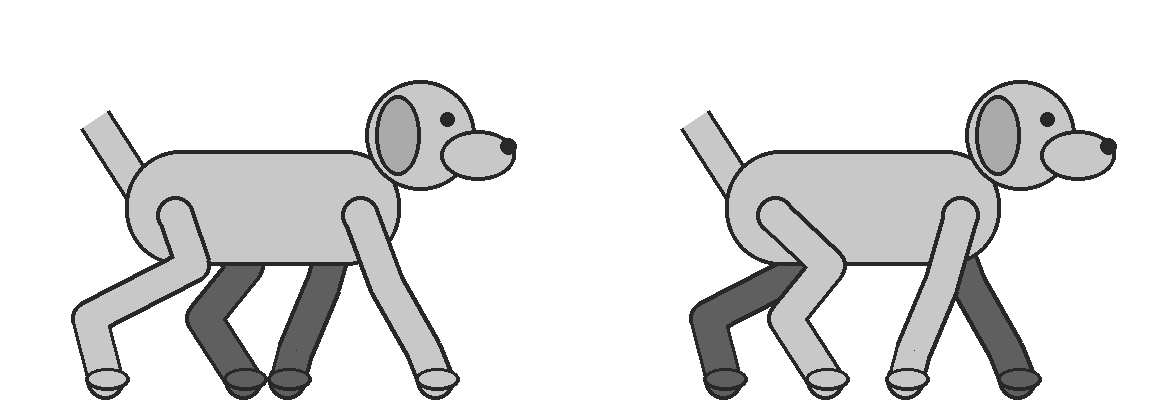
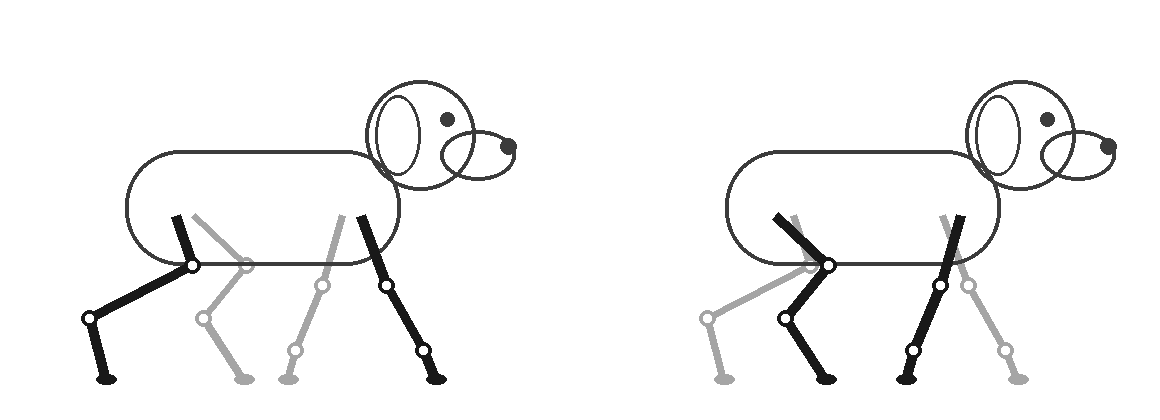
[그림 공장] 안내 그림을 막대 뼈대로(꼬리 없음) · 다리 털 질감·꼬리 모양 유지 · 흰 개 먼 다리 크림색 · 으르렁 눈은 웃게 · 칸 선 둘레까지 지우기

Changed region(s): [[0.0621, 0.1857, 0.4655, 0.9595], [0.5897, 0.1857, 0.9621, 0.9595]]

diff --git a/supabase/functions/dog-sheet/index.ts b/supabase/functions/dog-sheet/index.ts
@@ -4,8 +4,8 @@
 //   3x3: 앉기1 · 앉기2(갸웃) · 자기 / 걷기A · 걷기 중간 · 걷기B / 웃기 · 으르렁 · 배뒤집기 — 1K 1:1
 //   자르기·배경 빼기는 앱(브라우저, dog-sheet.js)에서.
 // 걷기: 왼다리·오른다리로 말하면 그림 모델이 못 알아듣는다(라운드 a — 두 장이 거의 같고 뒷다리는 그대로, 앞다리 교차 없음).
-//   그래서 자세 안내 그림(회색 마네킹, _dev/gait-guide.py)을 두 번째 그림으로 같이 보낸다 — 3x2는 gait-guide.png(A·B),
-//   3x3은 pose-guide-3x3.png(A·중간·B·배뒤집기). 밝은 다리 = 가까운 쪽, 어두운 다리 = 먼 쪽.
+//   그래서 자세 안내 그림(막대 뼈대 — 라운드 c의 굵은 회색 마네킹은 다리 질감·일자 꼬리까지 따라 해서 바꿈, _dev/gait-guide.py)을 두 번째 그림으로 같이 보낸다 — 3x2는 gait-guide.png(A·B),
+//   3x3은 pose-guide-3x3.png(A·중간·B·배뒤집기). 검은 굵은 선 = 가까운 다리, 옅은 회색 가는 선 = 먼 다리. 꼬리는 일부러 안 그림.
 //   짝은 대각선(가까운 앞 + 먼 뒤) — 빠른 걸음(트롯). 진짜 '걷기'는 네 박자라 두세 장으로는 못 그리고,
 //   같은 쪽 짝은 낙타 걸음처럼 보인다(점검 11/28). 중간 장은 A → 중간 → B → 중간으로 두 번 쓴다.
 //   안내 그림은 사이트에서 받아 온다 — 그림만 고쳐 올리면 함수를 다시 올리지 않아도 바뀐다. 못 받으면 글만으로 그린다.
@@ -46,7 +46,7 @@ const WALK_FACE = {
   calm: 'In every walk frame the face is calm: mouth closed, relaxed, looking ahead.',
 };
 const SMILE = 'happy, standing, big smile with mouth open, tongue out, tail up.';
-const GROWL = 'a playful little growl, standing: nose slightly wrinkled, lips lifted to show a few tiny teeth, ears forward, tail still up and wagging. Cute and teasing like play time, never scary or aggressive.';
+const GROWL = 'a playful little growl, standing: nose slightly wrinkled, lips lifted to show a few tiny teeth, ears forward, tail still up and wagging. Eyes stay soft and happy. Cute and teasing like play time, never grumpy, scary or aggressive.';
 const HAPPY_FACE = { smile: SMILE, growl: GROWL };
 const TILT = {   // 강아지 기준 왼·오가 아니라 그림 기준으로 말한다(모델이 덜 헷갈림)
   left: 'head tilted so the top of the head leans toward the LEFT side of the picture',
@@ -57,6 +57,8 @@ type Look = { walk: keyof typeof WALK_FACE; happy: keyof typeof HAPPY_FACE; tilt
 const COMMON = (breed: string, grid: string, n: string) => `Use the dog in the FIRST attached image as the only character reference${breed ? ` (breed: ${breed})` : ''}.
 Draw a sprite sheet of THIS SAME DOG: ${grid}, ${n} equal cells.
 Keep the breed, coat colors, markings, ear shape, tail and any clothing exactly the same in every cell.
+Keep the coat texture (curly, fluffy, long, wiry or smooth) on the whole body in every cell, legs included - legs are as furry as in the reference, with real paws.
+Keep the tail shape of the reference dog in every cell (curled, plumed, fluffy, short...). Never draw a straight stick tail.
 Never draw a leash, lead or harness (a small collar is fine); if the photo has one, leave it out and fill in the fur it covered.
 Style: cute pixel art with chunky visible pixels and a dark outline, full body, side view facing right unless noted.
 Every cell: one dog only, centered, the same size, feet on the same ground line, generous empty margin, nothing touching the cell edges.
@@ -65,19 +67,19 @@ Background: one flat pure chroma green (#00FF00) everywhere, no gradient, no tex
 `;
 const SIT1 = 'sitting, facing right, with a gentle slight smile (mouth softly curved, closed or only a little open).';
 const SIT2 = (look: Look) => `sitting, ${TILT[look.tilt]}, curious face, looking at the viewer.`;
-const LEGS = `Light gray legs are the near-side legs, dark gray legs are the far-side legs. Put the dog's legs exactly where the mannequin's legs are.
-Copy only the leg positions - never the gray color, the simple shapes or the style of the guide.
+const LEGS = `The guide is a stick figure: thick black lines are the near-side legs, thin light gray lines are the far-side legs, small circles are the joints. Put the dog's legs where those lines are.
+The lines only show positions. Draw real furry legs of this dog over them - never copy the lines, circles, colors or the outline body of the guide, and the guide has no tail on purpose.
 Diagonal pairs move together like a trot: when the near front leg is forward, the far back leg is also forward, and the far front leg and near back leg are back.
 In walk frames A and B the two front legs cross each other like an X and the two back legs cross each other like an X.
 From A to B every leg swaps: each front leg and each back leg that is forward in A is back in B. The back legs must move as much as the front legs.
-All four legs have the dog's own fur color. The far-side legs are only a slightly deeper shade of that same fur color - never gray or black unless the dog's fur really is. Real dog anatomy: front legs bend at the wrist, back legs bend at the hock which points backward.`;
+All four legs have the dog's own fur color. The far-side legs are only a slightly deeper shade of that same fur color - never gray or black unless the dog's fur really is. For a white or cream dog the far-side legs are a very light cream. Real dog anatomy: front legs bend at the wrist, back legs bend at the hock which points backward.`;
 
 const LAYOUTS = {
   '3x2': {
     aspect: '3:2', guide: 'gait-guide.png',
     prompt: (breed: string, look: Look) => COMMON(breed, '3 columns x 2 rows', 'six') + `Row 1, cell 1: ${SIT1}
 Row 1, cell 2 and cell 3 - WALKING, two frames that alternate as a walk cycle.
-The SECOND attached image is only a POSE GUIDE: two gray mannequin dogs, walk frame A on the left and walk frame B on the right.
+The SECOND attached image is only a POSE GUIDE: two stick-figure dogs, walk frame A on the left and walk frame B on the right.
 Cell 2 = frame A, cell 3 = frame B.
 ${LEGS}
 Head, face, ears, tail, body, size and position in the cell stay identical between A and B; only the legs change.
@@ -92,7 +94,7 @@ Row 2, cell 3: ${SIT2(look)}`,
 Row 1, cell 2: ${SIT2(look)}
 Row 1, cell 3: sleeping, lying curled up, eyes closed.
 Row 2 - WALKING, three frames of one walk cycle, played A, middle, B, middle.
-The SECOND attached image is only a POSE GUIDE: four gray mannequin dogs from left to right = walk frame A, walk middle frame, walk frame B, belly-up pose.
+The SECOND attached image is only a POSE GUIDE: four stick-figure dogs from left to right = walk frame A, walk middle frame, walk frame B, belly-up pose.
 Row 2, cell 1 = frame A, cell 2 = middle frame, cell 3 = frame B.
 In the middle frame the legs that were forward in A stand straight under the body on the ground, and the other two legs are lifted, bent and passing forward under the body.
 ${LEGS}
@@ -100,7 +102,7 @@ Head, face, ears, tail, body, size and position in the cell stay identical in al
 ${WALK_FACE[look.walk]}
 Row 3, cell 1: ${SMILE}
 Row 3, cell 2: ${GROWL}
-Row 3, cell 3: belly-up, like the fourth mannequin: lying on its back on the ground line, belly up, all four paws loosely bent in the air, head resting sideways on the ground turned toward the viewer with a happy face, tail on the ground. Show the belly in a lighter shade of the coat.`,
+Row 3, cell 3: belly-up, like the fourth stick figure: lying on its back on the ground line, belly up, all four paws loosely bent in the air, head resting sideways on the ground turned toward the viewer with a happy face, tail on the ground. Show the belly in a lighter shade of the coat.`,
   },
 } as const;
 type LayoutName = keyof typeof LAYOUTS;

diff --git a/dog-sheet.js b/dog-sheet.js
@@ -43,14 +43,24 @@
     // 칸 선 지우기(라운드 c 포메 — "선 없이"라고 해도 가끔 검은 칸 선을 그린다). 강아지 한 마리는 한 칸(그림의 1/3)을 못 넘으니,
     // 한 줄에 그림 절반 넘게 끊김 없이 이어진 가로·세로 줄은 선이다 — 그 줄의 어두운 점만 지운다.
     var lum = function (p) { return d[p * 4] * 0.3 + d[p * 4 + 1] * 0.59 + d[p * 4 + 2] * 0.11; }, lines = 0;
+    // 선 둘레(앞뒤 3줄)의 회색 점도 지운다 — 선 가장자리의 옅은 회색이 강아지에 붙어 걸을 때 격자가 따라다녔다(라운드 c 포메).
+    var grayish = function (p) { var r = d[p * 4], gg = d[p * 4 + 1], b = d[p * 4 + 2]; return Math.max(r, gg, b) - Math.min(r, gg, b) < 45 && lum(p) < 215; };
+    var lineRows = [], lineCols = [];
     for (y = 0; y < H; y++) {
       var cnt = 0, run = 0; for (x = 0; x < W; x++) { run = bg[y * W + x] ? 0 : run + 1; if (run > cnt) cnt = run; }   // 가장 길게 이어진 길이(강아지 셋이 한 줄에 있어도 안 걸리게)
-      if (cnt > W * 0.5) { lines++; for (x = 0; x < W; x++) { i = y * W + x; if (!bg[i] && lum(i) < 110) bg[i] = 1; } }
+      if (cnt > W * 0.5) lineRows.push(y);
     }
     for (x = 0; x < W; x++) {
       var cnt2 = 0, run2 = 0; for (y = 0; y < H; y++) { run2 = bg[y * W + x] ? 0 : run2 + 1; if (run2 > cnt2) cnt2 = run2; }
-      if (cnt2 > H * 0.5) { lines++; for (y = 0; y < H; y++) { i = y * W + x; if (!bg[i] && lum(i) < 110) bg[i] = 1; } }
+      if (cnt2 > H * 0.5) lineCols.push(x);
     }
+    lines = lineRows.length + lineCols.length;
+    lineRows.forEach(function (ly) {
+      for (var yy = Math.max(0, ly - 3); yy <= Math.min(H - 1, ly + 3); yy++) for (x = 0; x < W; x++) { i = yy * W + x; if (!bg[i] && grayish(i)) bg[i] = 1; }
+    });
+    lineCols.forEach(function (lx) {
+      for (var xx = Math.max(0, lx - 3); xx <= Math.min(W - 1, lx + 3); xx++) for (y = 0; y < H; y++) { i = y * W + xx; if (!bg[i] && grayish(i)) bg[i] = 1; }
+    });
     // 테두리에 번진 초록: 진하면 빼고, 옅으면 초록만 눌러 준다(두 겹)
     for (var pass = 0; pass < 2; pass++) {
       var drop = [];
@@ -86,6 +96,8 @@
     var cell = NAMES.map(function () { return null; });
     boxes.forEach(function (b) {
       if (b.n < MIN) return;   // 티끌
+      var bw = b.x1 - b.x0 + 1, bh = b.y1 - b.y0 + 1;
+      if (Math.min(bw, bh) <= 10 && Math.max(bw, bh) > 40) return;   // 가늘고 긴 조각 = 선 남은 것
       var col = Math.min(2, Math.floor(b.cx / (W / 3))), row = Math.min(ROWS - 1, Math.floor(b.cy / (H / ROWS))), c = cell[row * 3 + col];
       if (!c) cell[row * 3 + col] = { x0: b.x0, y0: b.y0, x1: b.x1, y1: b.y1, n: b.n };
       else { c.x0 = Math.min(c.x0, b.x0); c.y0 = Math.min(c.y0, b.y0); c.x1 = Math.max(c.x1, b.x1); c.y1 = Math.max(c.y1, b.y1); c.n += b.n; }

diff --git a/_dev/gait-guide.py b/_dev/gait-guide.py
@@ -6,16 +6,18 @@ from PIL import Image, ImageDraw
 import os, sys
 root = os.path.dirname(os.path.dirname(os.path.abspath(__file__)))
 CW, CH = 560, 420
-NEAR, FAR, BODY, LINE = (200, 200, 200), (95, 95, 95), (200, 200, 200), (40, 40, 40)
+# 11/28 라운드 c 뒤 가르시아 "다리 질감이 마네킹처럼, 꼬리도 일자" → 굵은 회색 마네킹 대신 막대 뼈대(선 + 관절 점), 꼬리는 아예 안 그림.
+# 가까운 다리 = 검은 굵은 선, 먼 다리 = 옅은 회색 가는 선. 몸·머리는 테두리만.
+NEAR, FAR, BODY, LINE = (25, 25, 25), (165, 165, 165), (255, 255, 255), (60, 60, 60)
 T = 30   # 다리 굵기
 
 def leg(d, pts, col):
-    for w, c in ((T + 8, LINE), (T, col)):
-        d.line(pts, fill=c, width=w, joint='curve')
-        for x, y in (pts[0], pts[-1]):
-            d.ellipse((x - w / 2, y - w / 2, x + w / 2, y + w / 2), fill=c)
-    px, py = pts[-1]   # 발
-    d.ellipse((px - 20, py - 12, px + 24, py + 10), fill=LINE); d.ellipse((px - 16, py - 9, px + 20, py + 6), fill=col)
+    w = 10 if col == NEAR else 7
+    d.line(pts, fill=col, width=w, joint='curve')
+    for x, y in pts[1:-1]:   # 관절
+        d.ellipse((x - 8, y - 8, x + 8, y + 8), fill=(255, 255, 255), outline=col, width=4)
+    px, py = pts[-1]          # 발 — 작은 점
+    d.ellipse((px - 9, py - 6, px + 11, py + 4), fill=col)
 
 def front(sx, sy, dx, g):   # 어깨 → 팔꿈치 → 손목(뒤로 살짝) → 발
     return [(sx, sy), (sx + dx * 0.35, g - 95), (sx + dx * 0.85, g - 30), (sx + dx, g)]
@@ -28,13 +30,12 @@ def dog(d, ox, legs):
     nf, ff, nh, fh = legs
     leg(d, front(S[0] - 18, S[1], ff, g), FAR)      # 먼 다리 먼저
     leg(d, hind(Hp[0] + 18, Hp[1], fh, g), FAR)
-    d.line([(ox + 140, 190), (ox + 95, 120)], fill=LINE, width=T + 6); d.line([(ox + 140, 190), (ox + 95, 120)], fill=BODY, width=T - 2)   # 꼬리
-    d.rounded_rectangle((ox + 125, 150, ox + 400, 265), radius=55, fill=BODY, outline=LINE, width=4)   # 몸
-    d.ellipse((ox + 365, 80, ox + 475, 190), fill=BODY, outline=LINE, width=4)    # 머리
-    d.ellipse((ox + 440, 130, ox + 515, 180), fill=BODY, outline=LINE, width=4)   # 주둥이
+    d.rounded_rectangle((ox + 125, 150, ox + 400, 265), radius=55, fill=None, outline=LINE, width=4)   # 몸
+    d.ellipse((ox + 365, 80, ox + 475, 190), fill=None, outline=LINE, width=4)    # 머리
+    d.ellipse((ox + 440, 130, ox + 515, 180), fill=None, outline=LINE, width=4)   # 주둥이
     d.ellipse((ox + 500, 138, ox + 516, 154), fill=LINE)                          # 코
     d.ellipse((ox + 440, 112, ox + 454, 126), fill=LINE)                          # 눈
-    d.ellipse((ox + 375, 95, ox + 420, 175), fill=(170, 170, 170), outline=LINE, width=4)   # 귀
+    d.ellipse((ox + 375, 95, ox + 420, 175), fill=None, outline=LINE, width=3)   # 귀
     leg(d, front(*S, nf, g), NEAR)                  # 가까운 다리 나중
     leg(d, hind(*Hp, nh, g), NEAR)
 
@@ -55,26 +56,24 @@ def dog_mid(d, ox):
     leg(d, hind_up(*Hp, 16, g), NEAR)
 
 def body(d, ox):
-    d.line([(ox + 140, 190), (ox + 95, 120)], fill=LINE, width=T + 6); d.line([(ox + 140, 190), (ox + 95, 120)], fill=BODY, width=T - 2)
-    d.rounded_rectangle((ox + 125, 150, ox + 400, 265), radius=55, fill=BODY, outline=LINE, width=4)
-    d.ellipse((ox + 365, 80, ox + 475, 190), fill=BODY, outline=LINE, width=4)
-    d.ellipse((ox + 440, 130, ox + 515, 180), fill=BODY, outline=LINE, width=4)
+    d.rounded_rectangle((ox + 125, 150, ox + 400, 265), radius=55, fill=None, outline=LINE, width=4)
+    d.ellipse((ox + 365, 80, ox + 475, 190), fill=None, outline=LINE, width=4)
+    d.ellipse((ox + 440, 130, ox + 515, 180), fill=None, outline=LINE, width=4)
     d.ellipse((ox + 500, 138, ox + 516, 154), fill=LINE)
     d.ellipse((ox + 440, 112, ox + 454, 126), fill=LINE)
-    d.ellipse((ox + 375, 95, ox + 420, 175), fill=(170, 170, 170), outline=LINE, width=4)
+    d.ellipse((ox + 375, 95, ox + 420, 175), fill=None, outline=LINE, width=3)
 
 def dog_belly(d, ox):
     # 배뒤집기: 등이 바닥 선에 닿고 배가 위, 네 발은 살짝 굽혀 하늘로. 머리는 오른쪽 바닥에 옆으로 — 보는 사람을 봄.
     g = 380
     for pts in ([(ox + 330, 300), (ox + 350, 235), (ox + 330, 205)], [(ox + 200, 300), (ox + 215, 235), (ox + 195, 210)]):
         leg(d, pts, FAR)   # 먼 다리
-    d.line([(ox + 125, 350), (ox + 60, 370)], fill=LINE, width=T + 6); d.line([(ox + 125, 350), (ox + 60, 370)], fill=BODY, width=T - 2)   # 꼬리(바닥)
-    d.rounded_rectangle((ox + 115, 265, ox + 400, g), radius=55, fill=BODY, outline=LINE, width=4)   # 몸(등이 바닥)
-    d.ellipse((ox + 170, 280, ox + 360, 330), fill=(225, 225, 225))   # 배
+    d.rounded_rectangle((ox + 115, 265, ox + 400, g), radius=55, fill=None, outline=LINE, width=4)   # 몸(등이 바닥)
+    
     for pts in ([(ox + 360, 290), (ox + 395, 220), (ox + 370, 185)], [(ox + 230, 290), (ox + 250, 215), (ox + 225, 180)]):
         leg(d, pts, NEAR)  # 가까운 다리
-    d.ellipse((ox + 385, 270, ox + 495, g), fill=BODY, outline=LINE, width=4)   # 머리(옆으로 누움)
-    d.ellipse((ox + 400, 300, ox + 440, 370), fill=(170, 170, 170), outline=LINE, width=4)   # 귀
+    d.ellipse((ox + 385, 270, ox + 495, g), fill=None, outline=LINE, width=4)   # 머리(옆으로 누움)
+    d.ellipse((ox + 400, 300, ox + 440, 370), fill=None, outline=LINE, width=3)   # 귀
     d.ellipse((ox + 455, 300, ox + 469, 314), fill=LINE); d.ellipse((ox + 470, 335, ox + 486, 351), fill=LINE)   # 눈·코
 
 def save(im, name):
